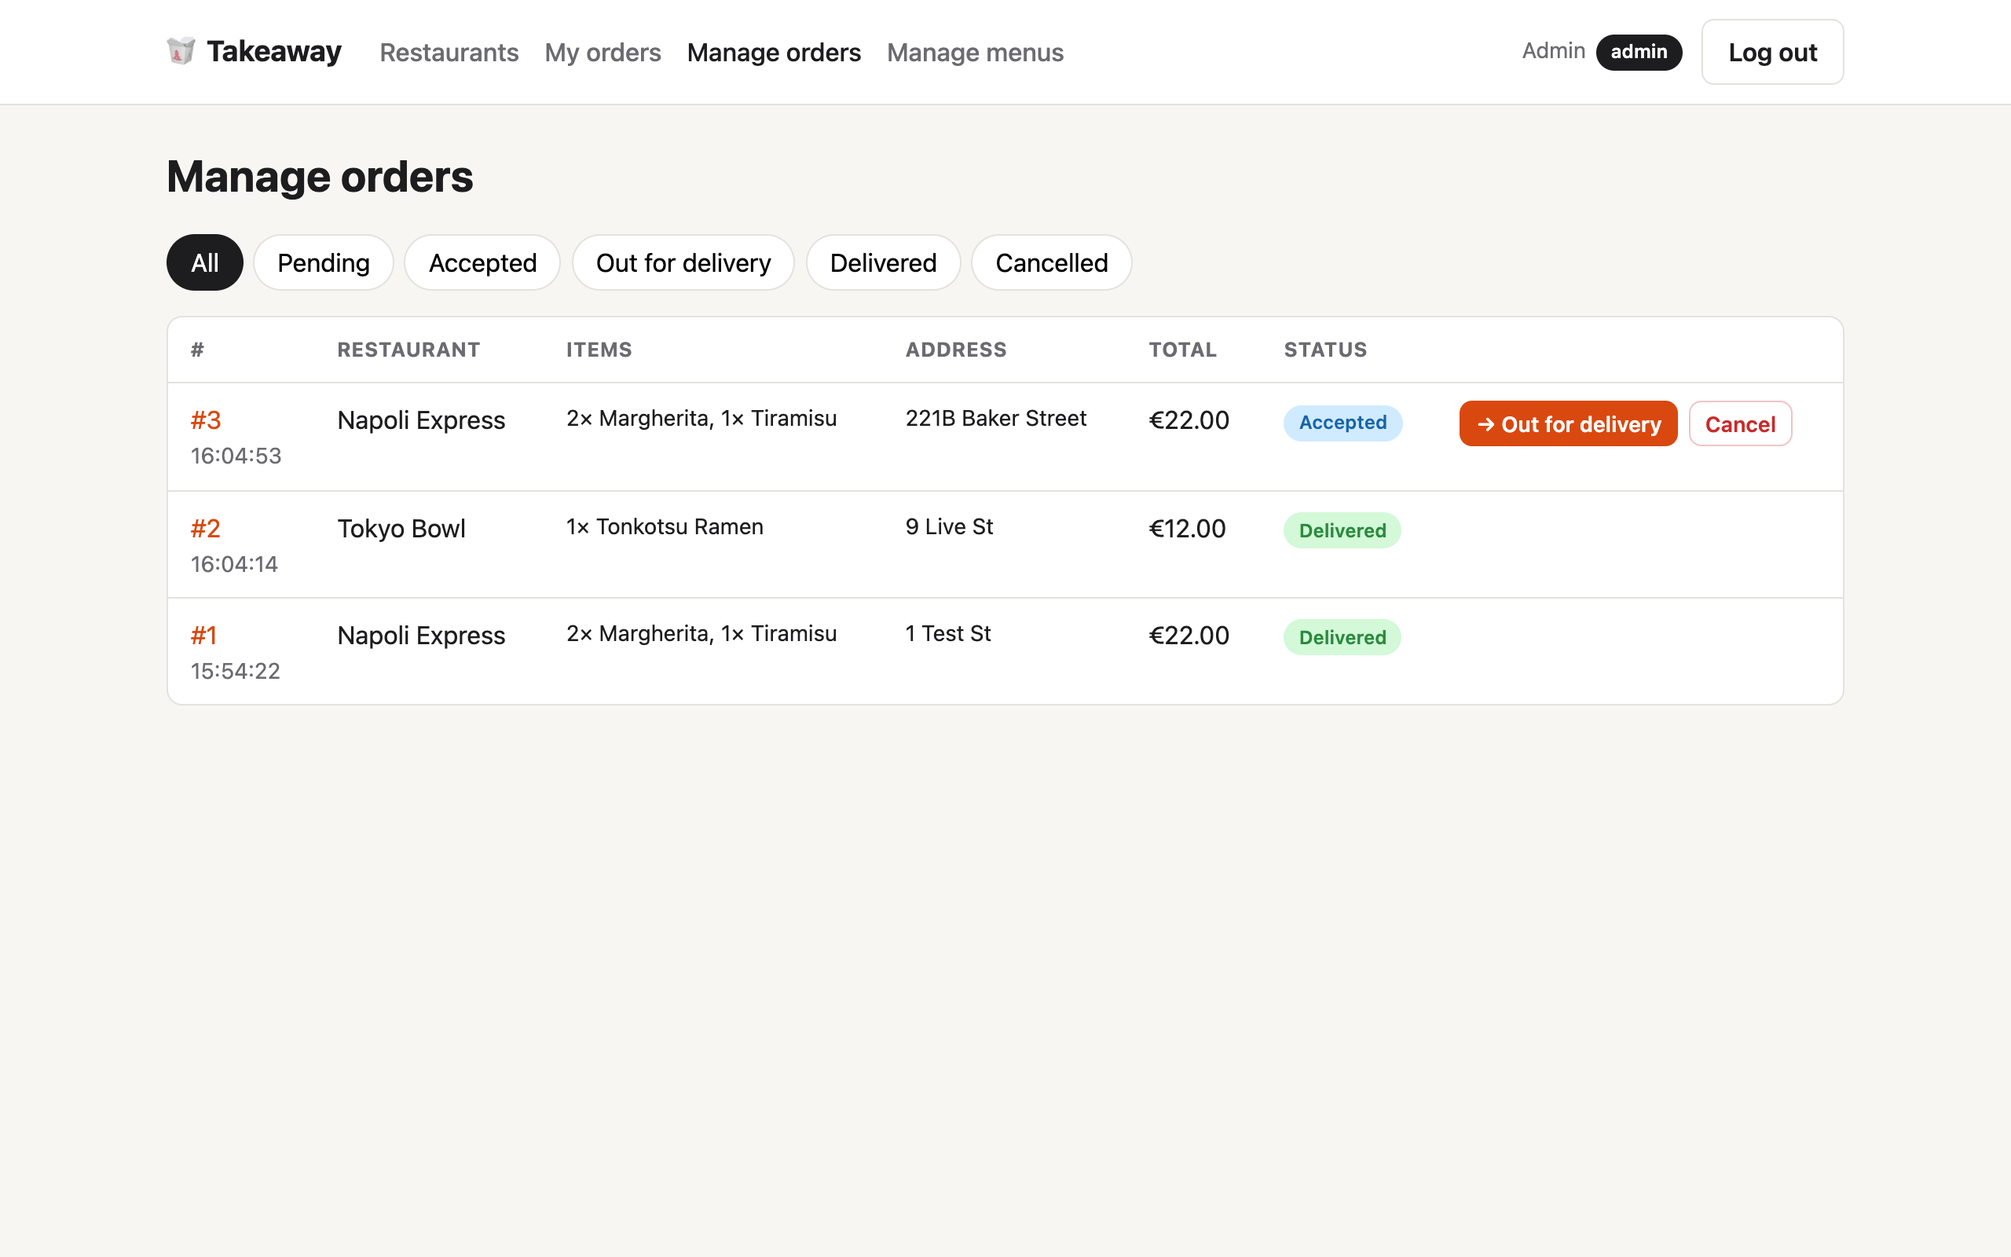
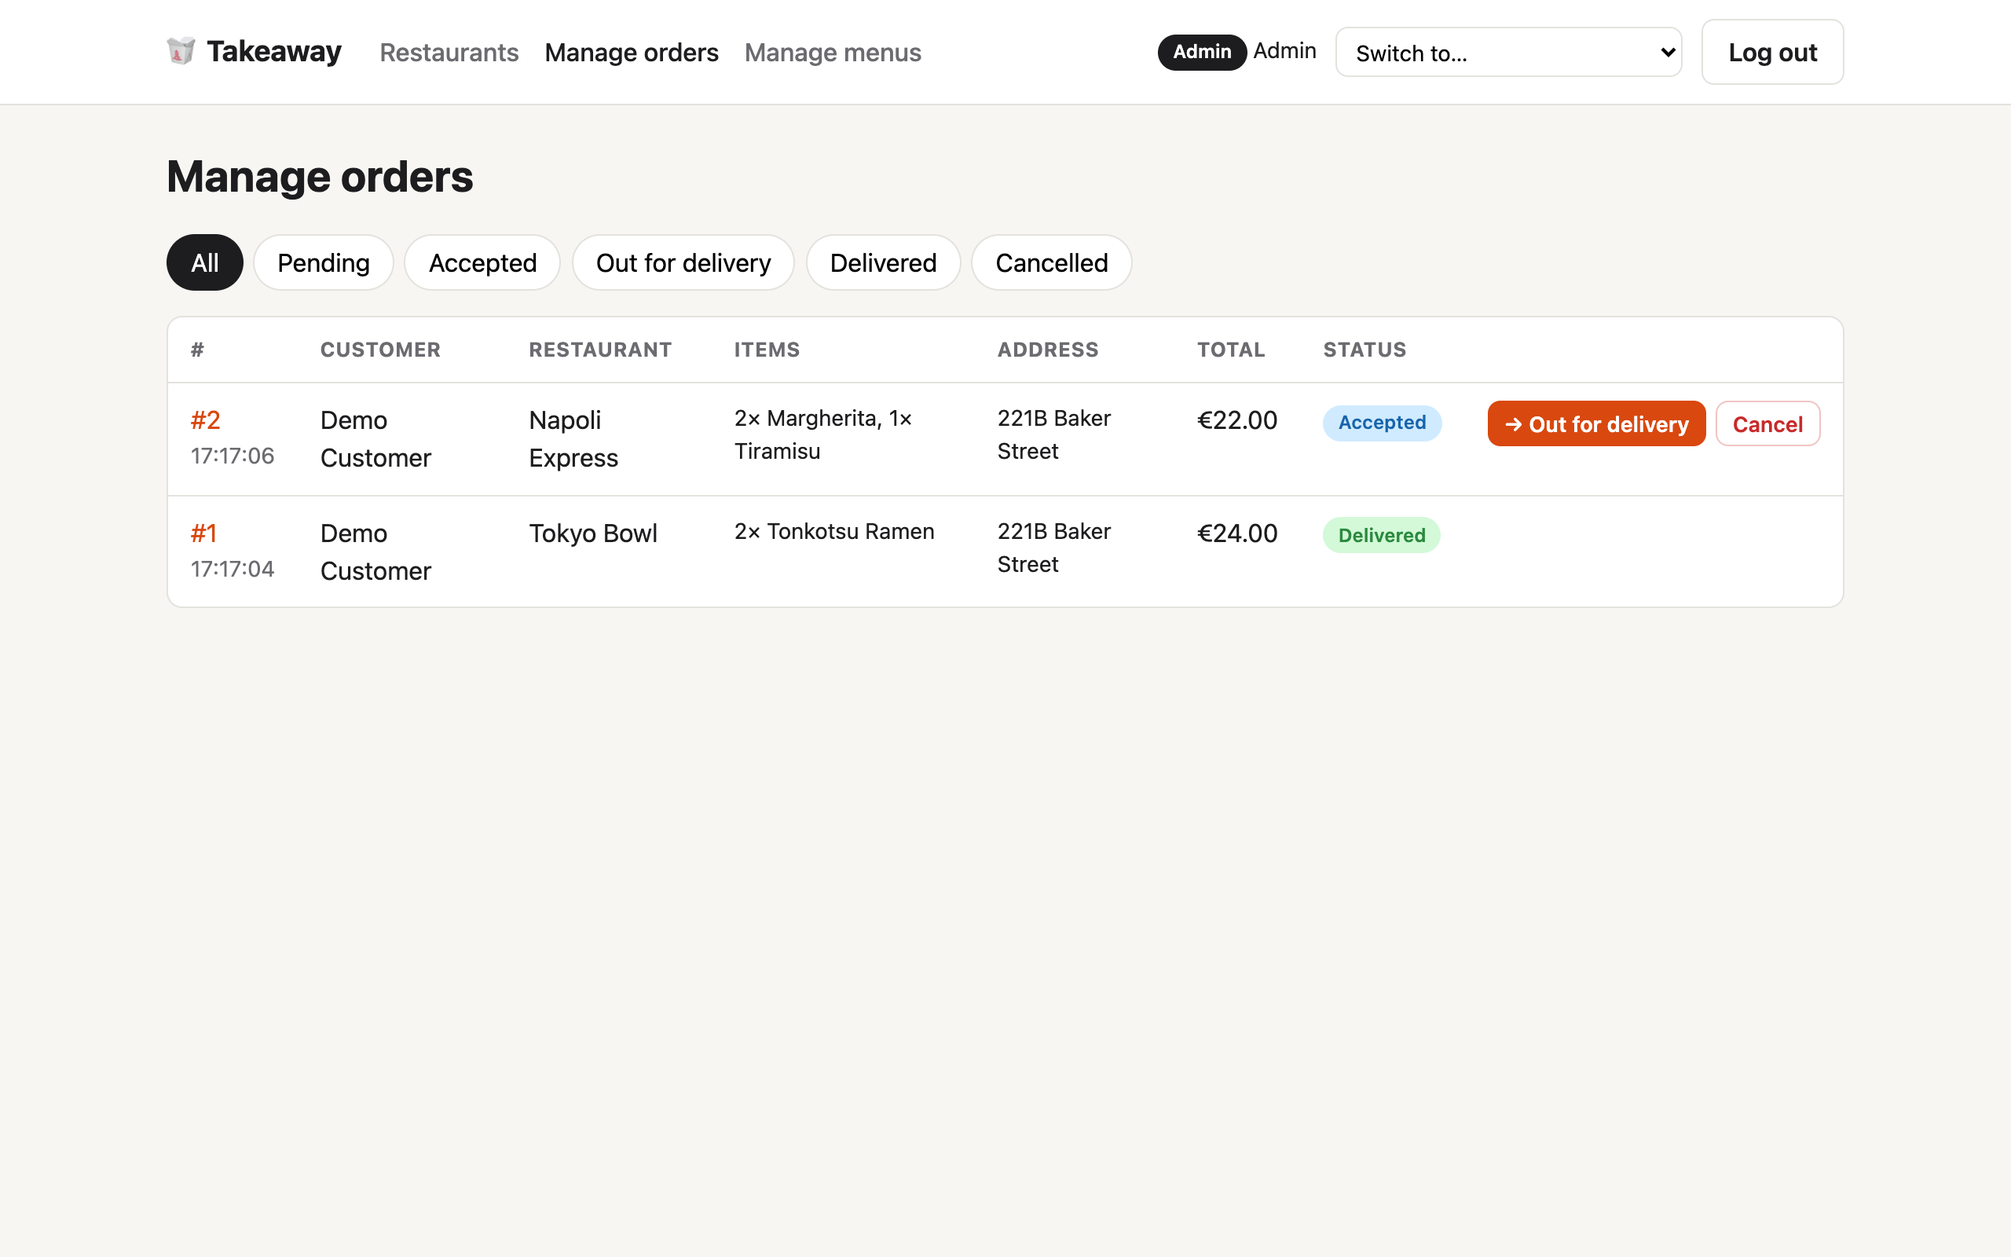
Docs: README matches the code; business rules, locking and config tables; fresh screenshots

diff --git a/README.md b/README.md
@@ -1,7 +1,7 @@
 # Takeaway Platform
 
 A small takeaway platform: customers browse restaurants and menus, place orders and
-track their status; staff (admins) manage menus and move orders through their lifecycle.
+track their status live; staff (admins) manage menus and move orders through their lifecycle.
 
 | Path      | What                                                              |
 |-----------|-------------------------------------------------------------------|
@@ -28,9 +28,10 @@ docker compose up --build        # no .env needed; migrations + demo data run on
 4. API docs with "Authorize": **http://localhost:8080/api/docs**.
 
 Seeded accounts: `customer@takeaway.dev` / `customer1234` and `admin@takeaway.dev` /
-`admin1234`. Sign up to create more customers.
+`admin1234`. Sign up to create more customers; the **Switch to…** dropdown lists every account.
 
-Tests (needs the compose `db` running; uses a separate `takeaway_test` database):
+Tests (need the compose `db` running; they use a separate `takeaway_test` database, so run one
+test session at a time):
 
 ```bash
 cd api && uv sync && uv run pytest
@@ -42,39 +43,44 @@ cd api && uv sync && uv run pytest
 flowchart LR
     B[Browser] -->|":8080"| N[nginx]
     N -->|"/"| W[React static build]
-    N -->|"/api  proxy, rate-limit on /auth"| A["FastAPI (uvicorn, 2 workers)"]
+    N -->|"/api  proxy (login/register rate-limited)"| A["FastAPI (uvicorn, 2 workers)"]
     A -->|SQLAlchemy| D[(Postgres 17)]
     A -. "NOTIFY order_status on status change" .-> D
     D -. "LISTEN → SSE stream to the tracking page" .-> A
 ```
 
-On start the API container runs Alembic migrations and an idempotent seed (admin user +
-a demo customer + two demo restaurants), then reports healthy; nginx waits for that.
+On start the API container runs Alembic migrations and an idempotent seed (admin, a demo
+customer and two demo restaurants), then reports healthy; nginx waits for that.
 
 ## API overview
 
 All routes are under `/api/v1`. Auth is JWT bearer; get a token from `POST /auth/login`
 (OAuth2 password form: `username` = email). The "Authorize" button in the docs works too.
 
-| Method | Path                                   | Who      | Purpose                         |
-|--------|----------------------------------------|----------|---------------------------------|
-| POST   | `/auth/register`                       | public   | Create a customer account       |
-| POST   | `/auth/login`                          | public   | Get an access token             |
-| GET    | `/auth/me`                             | user     | Current user                    |
-| GET    | `/restaurants`                         | public   | List active restaurants         |
-| GET    | `/restaurants/{id}`                    | public   | Restaurant details              |
-| GET    | `/restaurants/{id}/menu`               | public   | Menu                            |
-| POST   | `/restaurants`                         | admin    | Create restaurant               |
-| PATCH  | `/restaurants/{id}`                    | admin    | Update / deactivate restaurant  |
-| POST   | `/restaurants/{id}/menu`               | admin    | Add menu item                   |
-| PATCH  | `/restaurants/{id}/menu/{item_id}`     | admin    | Update menu item                |
-| DELETE | `/restaurants/{id}/menu/{item_id}`     | admin    | Remove menu item                |
-| POST   | `/orders`                              | user     | Place an order (`Idempotency-Key` optional; address defaults to the saved one) |
-| GET    | `/orders?status=`                      | user     | Own orders (admins: all)        |
-| GET    | `/orders/{id}`                         | user     | Order with its status history   |
-| GET    | `/orders/{id}/stream`                  | user     | Live status (Server-Sent Events)|
-| POST   | `/orders/{id}/cancel`                  | user     | Cancel own order while pending  |
-| PATCH  | `/orders/{id}/status`                  | admin    | Advance order status            |
+| Method | Path                               | Who      | Purpose                                         |
+|--------|------------------------------------|----------|-------------------------------------------------|
+| POST   | `/auth/register`                   | public   | Create a customer account                       |
+| POST   | `/auth/login`                      | public   | Get an access token                             |
+| GET    | `/auth/me`                         | user     | Current user (incl. saved address)              |
+| GET    | `/auth/demo-accounts`              | demo     | All accounts, for the UI's account switcher     |
+| POST   | `/auth/demo-login/{user_id}`       | demo     | Token for any account, no password              |
+| GET    | `/restaurants`                     | public   | Active restaurants (admins also see inactive)   |
+| GET    | `/restaurants/{id}`                | public   | Restaurant details (404 if inactive, for non-admins) |
+| GET    | `/restaurants/{id}/menu`           | public   | Menu                                            |
+| POST   | `/restaurants`                     | admin    | Create restaurant                               |
+| PATCH  | `/restaurants/{id}`                | admin    | Update; `is_active: false` deactivates          |
+| POST   | `/restaurants/{id}/menu`           | admin    | Add menu item                                   |
+| PATCH  | `/restaurants/{id}/menu/{item_id}` | admin    | Update menu item                                |
+| DELETE | `/restaurants/{id}/menu/{item_id}` | admin    | Remove menu item                                |
+| POST   | `/orders`                          | customer | Place an order (`Idempotency-Key` header optional) |
+| GET    | `/orders?status=`                  | user     | Own orders (admins: all)                        |
+| GET    | `/orders/{id}`                     | user     | Order with items and status history             |
+| GET    | `/orders/{id}/stream`              | user     | Live status (Server-Sent Events)                |
+| POST   | `/orders/{id}/cancel`              | user     | Cancel own order while pending                  |
+| PATCH  | `/orders/{id}/status`              | admin    | Advance or cancel an order                      |
+
+"demo" routes exist only with `DEMO_LOGINS=true` (set by docker-compose; 404 otherwise, and
+refused in production). Admins can't place orders (403).
 
 ### Order lifecycle
 
@@ -84,56 +90,92 @@ pending ──► accepted ──► out_for_delivery ──► delivered
    └────────────┴──► cancelled
 ```
 
-Invalid transitions return `409 Conflict`. Status updates lock the order row
-(`SELECT … FOR UPDATE`) so concurrent updates can't skip a step. Every change is appended to
-`order_status_events` (audit trail + per-step timestamps) and announced with Postgres
-`NOTIFY`, which the `/stream` endpoint relays to the customer as Server-Sent Events.
+Invalid transitions return `409 Conflict`. Every change is appended to `order_status_events`
+(audit trail + per-step timestamps) and announced with Postgres `NOTIFY`, which the `/stream`
+endpoint relays to the customer as Server-Sent Events.
+
+## Business rules
+
+| Rule | Where it's enforced |
+|---|---|
+| Up to 10 of each menu item per order, each item on one line, up to 50 lines | Request schema (422) |
+| One active (not delivered/cancelled) order per restaurant per customer | Order service (409, names the order) |
+| At most `MAX_ORDERS_PER_CUSTOMER` (10) orders per customer, cancelled ones not counted | Order service (409) |
+| Unavailable items, items from another restaurant, inactive restaurants can't be ordered | Order service (409 / 422 / 404) |
+| The delivery address is saved on the customer and pre-fills (or, if omitted, fills) the next order | Order service + checkout UI |
+| Customers cancel only while pending; staff can cancel pending or accepted orders | Status rules (409) |
+| Deactivating a restaurant cancels its pending and accepted orders; ones out for delivery complete | Restaurant update (same transaction) |
+| Staff accounts don't place orders | `CustomerUser` dependency (403) |
+
+The web UI mirrors these (quantity buttons stop at 10, an active order is shown instead of
+checkout, staff get no cart), and keeps the cart honest: it re-syncs with the live menu
+(removed/unavailable items dropped, prices refreshed), is cleared when its restaurant goes
+away, and belongs to the account that filled it.
+
+## Consistency under concurrency
+
+Row locks are taken in one order (customer → restaurant → menu items / orders), so they can't
+deadlock:
+
+- **Status changes** lock the order (`SELECT … FOR UPDATE`): two staff can't both advance it,
+  and a customer's cancel can't race an accept. A test holds the lock from another transaction
+  to prove an update waits and then re-checks.
+- **Checkout** locks the customer row, so simultaneous checkouts (or retries with the same
+  `Idempotency-Key`) run one after another: limits can't be slipped past, and a retry returns
+  the original order. It also takes *shared* locks on the restaurant and the ordered menu items,
+  so they can't be deactivated or deleted mid-checkout, while checkouts don't block each other.
+- **Deactivating a restaurant** takes an exclusive lock on it, then cancels its open orders in
+  the same transaction.
 
 ## Design notes
 
 - **Prices are snapshotted** on order items (name + unit price), so editing or deleting a
   menu item never rewrites order history. The total is computed server-side.
-- **Restaurants are deactivated, not deleted**, because orders reference them.
-- **Customers get 404 for other people's orders** rather than 403, so order IDs don't leak.
 - **Money is `Decimal`** end to end and serialised as a string (`"17.00"`) to avoid float rounding.
-- Admins are created by the seed script from env vars; public registration only creates customers.
-- **Pessimistic locking for status changes** (`SELECT … FOR UPDATE`) rather than optimistic
-  versioning: contention on a single order is rare and short, and it keeps the code obvious.
-  A test holds the lock from a second transaction to prove updates wait and re-check.
-- **Tests run on Postgres through the real Alembic migrations**, so locks, enums and `Numeric`
-  behave exactly as in production, and migrations are exercised on every run.
-- **Public endpoints accept an optional token**: anonymous users only see active restaurants,
-  admins see inactive ones too (so they can reactivate them).
-- **Ordering rules**: one active (not delivered/cancelled) order per restaurant per customer,
-  and at most `MAX_ORDERS_PER_CUSTOMER` (10) non-cancelled orders. Both are checked while
-  holding a lock on the customer's row, so two simultaneous checkouts can't slip past them.
-- **Saved address**: the last delivery address is stored on the user, pre-fills checkout, and
-  is used when an order omits it; editing it at checkout updates the saved one.
+- **Restaurants are deactivated, not deleted**, because orders reference them; orders keep
+  showing the restaurant's name.
+- **Customers get 404 for other people's orders** rather than 403, so order IDs don't leak.
+- **Public read endpoints, authenticated writes.** Browsing needs no account (like most
+  takeaway apps); an optional token lets admins see inactive restaurants.
 - **Live tracking uses SSE + Postgres `LISTEN/NOTIFY`** rather than WebSockets or Redis:
-  updates are one-way (server → customer), SSE is plain HTTP through nginx, and NOTIFY is
-  transactional (sent only on commit) and reaches every uvicorn worker with no extra service.
+  updates are one-way, SSE is plain HTTP through nginx, and NOTIFY is transactional (sent only
+  on commit) and reaches every uvicorn worker with no extra service.
 - **Idempotent order placement**: an optional `Idempotency-Key` header (unique per customer)
-  makes retries and double clicks return the original order; the web UI sends one per checkout.
-- **Demo account switcher** (local only): the app starts signed in as the seeded customer and a
-  header dropdown lists every account (new sign-ups included) to switch between without typing
-  passwords. It's backed by `GET /auth/demo-accounts` and `POST /auth/demo-login/{user_id}`,
-  which return 404 when `ENVIRONMENT=production`; sign-up and normal login work as usual.
-- **Hardening kept deliberately small**: login/register are rate-limited in nginx, Postgres is
-  bound to localhost, the health check hits the DB, and `ENVIRONMENT=production` refuses to
-  start with the default JWT secret or admin password.
+  makes retries and double clicks return the original order; the UI sends one per checkout.
+- **Tests run on Postgres through the real Alembic migrations**, so locks, enums and `Numeric`
+  behave as in production and migrations are exercised on every run.
+- **Small, explicit hardening**: login/register rate-limited in nginx, Postgres bound to
+  localhost, a DB-checking health probe, and `ENVIRONMENT=production` refuses to start with
+  default secrets or with `DEMO_LOGINS` on.
+
+## Configuration
+
+Every variable has a working default in `docker-compose.yml`; see `.env.example`.
+
+| Variable | Default | Purpose |
+|---|---|---|
+| `ENVIRONMENT` | `local` | `production` enforces the safety checks above |
+| `DEMO_LOGINS` | `true` in compose, `false` otherwise | One-click account switcher |
+| `JWT_SECRET_KEY`, `ACCESS_TOKEN_EXPIRE_MINUTES` | dev secret, `60` | Auth tokens |
+| `FIRST_ADMIN_EMAIL` / `_PASSWORD` | `admin@takeaway.dev` / `admin1234` | Seeded admin |
+| `SEED_DEMO_DATA`, `DEMO_CUSTOMER_EMAIL` / `_PASSWORD` | `true`, `customer@takeaway.dev` / `customer1234` | Demo restaurants + customer |
+| `MAX_ORDERS_PER_CUSTOMER` | `10` | Order cap per customer |
+| `POSTGRES_*`, `HTTP_PORT` | `takeaway`, `8080` | Database and published port |
 
 ## Trade-offs & what I'd do next
 
-- **One DB connection per open stream** (each LISTENs itself). Fine here; at scale, one
-  listener per worker would fan notifications out to an in-memory set of subscribers.
+- **The order cap is lifetime** (as specified): after 10 non-cancelled orders a customer can't
+  order again. A real product would more likely cap active orders or orders per day.
+- **One extra DB connection per open stream** (each LISTENs on its own; the request's pooled
+  session is released first). At scale, one listener per worker would fan out to subscribers.
 - **Idempotency keys don't check the body**: reusing a key with a different cart returns the
   first order. Production would store a request hash and reject mismatches with 422.
-- **The staff order board polls** every 10 s; it could subscribe to the same stream.
+- **The staff order board polls** every 10 s; it could subscribe to a stream too.
 - **Migrations run on container start**, fine for one instance; with several replicas they'd
   move to a one-off deploy job.
 - **Staff are global admins**; a real platform would scope staff to their restaurants.
-- **Auth**: short-lived access tokens only — no refresh tokens or revocation. The web UI keeps
-  the token in `localStorage`; an httpOnly cookie would be safer against XSS.
+- **Auth**: short-lived access tokens only (no refresh/revocation), kept in `localStorage`;
+  an httpOnly cookie would be safer against XSS.
 - **Services raise `HTTPException`** directly; with more business logic I'd use domain
   exceptions mapped to HTTP in one place.
-- No CI pipeline or structured logging yet (uvicorn access logs only); reviewers run it locally.
+- No CI or structured logging yet (uvicorn access logs only); reviewers run it locally.

diff --git a/api/README.md b/api/README.md
@@ -6,14 +6,14 @@ FastAPI backend for the takeaway platform.
 
 ```
 app/
-├── main.py            # FastAPI app factory: mounts routers, docs, health check
-├── initial_data.py    # idempotent seed (admin user + demo restaurants)
+├── main.py            # FastAPI app: mounts routers, docs, DB-checking health endpoint
+├── initial_data.py    # idempotent seed (admin, demo customer, demo restaurants)
 ├── core/              # settings, DB engine/session, password hashing & JWT
 ├── models/            # SQLAlchemy ORM models
 ├── schemas/           # Pydantic request/response models (shared field types in types.py)
-├── services/          # business logic that is more than CRUD (order placement & status rules)
+├── services/          # business logic beyond CRUD: order rules, status changes, SSE stream
 └── api/
-    ├── deps.py        # DB session, current user, admin guard
+    ├── deps.py        # DB session, optional/current user, admin and customer guards
     ├── router.py      # aggregates all routers under /api/v1
     └── routes/        # one module per resource: auth, restaurants, orders
 alembic/               # migrations
@@ -32,10 +32,12 @@ uv run python -m app.initial_data
 uv run uvicorn app.main:app --reload      # http://localhost:8000/api/docs
 ```
 
-Set `DATABASE_URL` (or an `api/.env` file) if Postgres isn't on `localhost:5432`.
+Set `DATABASE_URL` (or an `api/.env` file) if Postgres isn't on `localhost:5432`, and
+`DEMO_LOGINS=true` if you want the web UI's account switcher against this server.
 
 ```bash
-uv run pytest                             # tests (needs the compose `db`; uses a `takeaway_test` DB)
+uv run pytest                             # tests (needs the compose `db`; uses a `takeaway_test` DB,
+                                          #  one session at a time)
 uv run ruff check . && uv run ruff format .
 uv run alembic revision --autogenerate -m "describe change"
 ```

diff --git a/web/README.md b/web/README.md
@@ -10,12 +10,15 @@ at `/` and API calls go to `/api/v1` on the same origin.
 | Path                 | Who      | What                                              |
 |----------------------|----------|---------------------------------------------------|
 | `/`                  | public   | Restaurant list                                   |
-| `/restaurants/:id`   | public   | Menu + cart; checkout needs an account            |
+| `/restaurants/:id`   | public   | Menu + cart (max 10 per item); checkout needs a customer account |
 | `/login`, `/register`| public   | Auth (JWT kept in `localStorage`)                 |
-| `/orders`            | user     | Own orders                                        |
+| `/orders`            | customer | Own orders                                        |
 | `/orders/:id`        | user     | Live tracking (SSE), step times, cancel if pending |
 | `/admin/orders`      | admin    | All orders, filter by status, advance / cancel    |
-| `/admin/menus`       | admin    | Add restaurants; add / edit / delete menu items   |
+| `/admin/menus`       | admin    | Add, deactivate, reactivate restaurants; add / edit / delete menu items |
+
+The header shows the signed-in role and, when the API has `DEMO_LOGINS` on, a **Switch to…**
+dropdown with every account. Pages remount on account switch so they refetch their data.
 
 ## Local development
 
